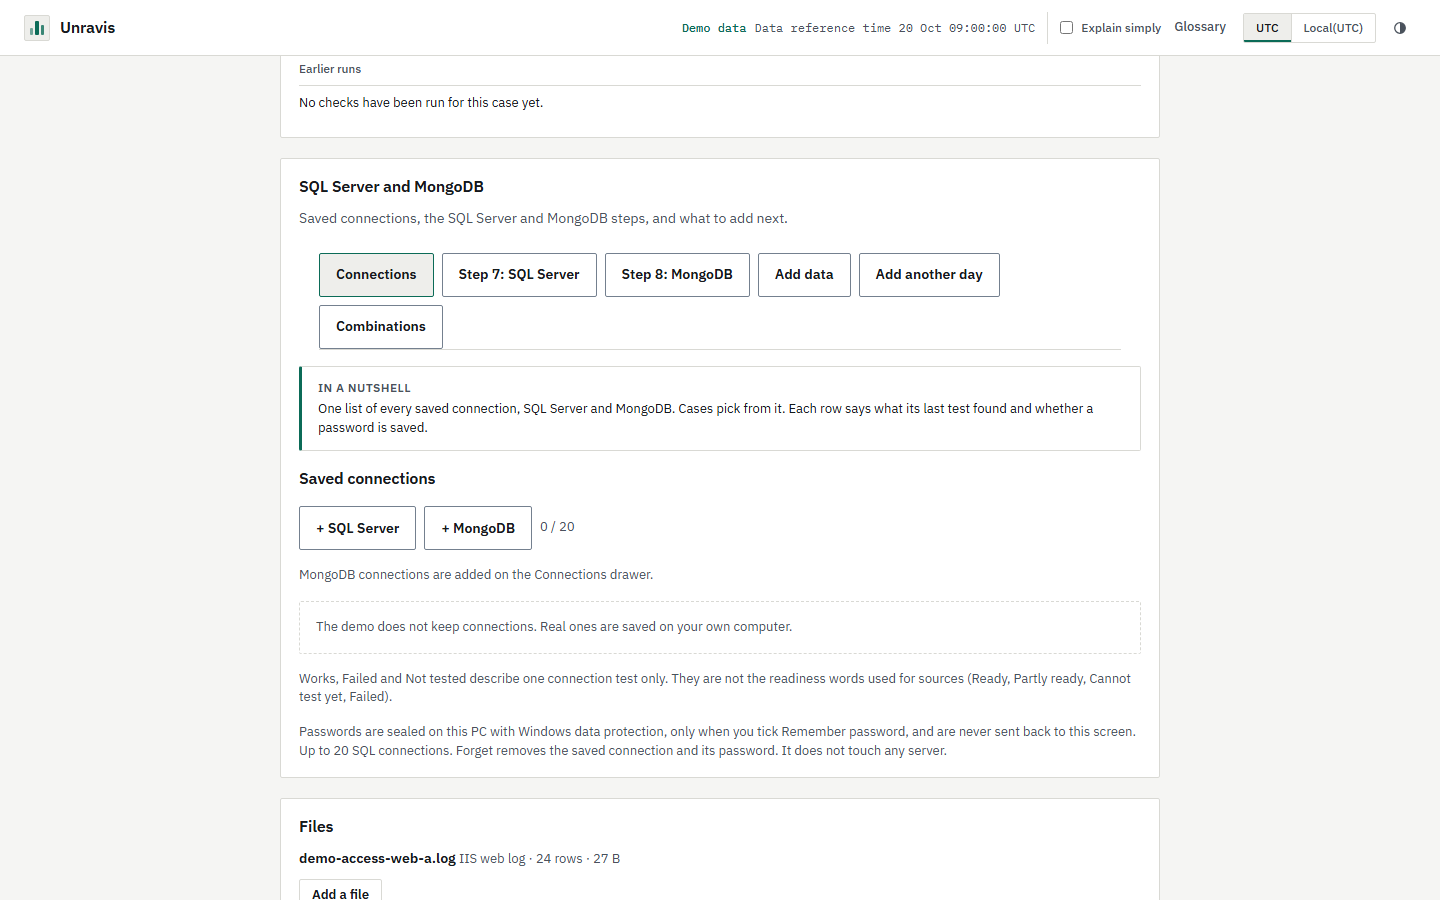
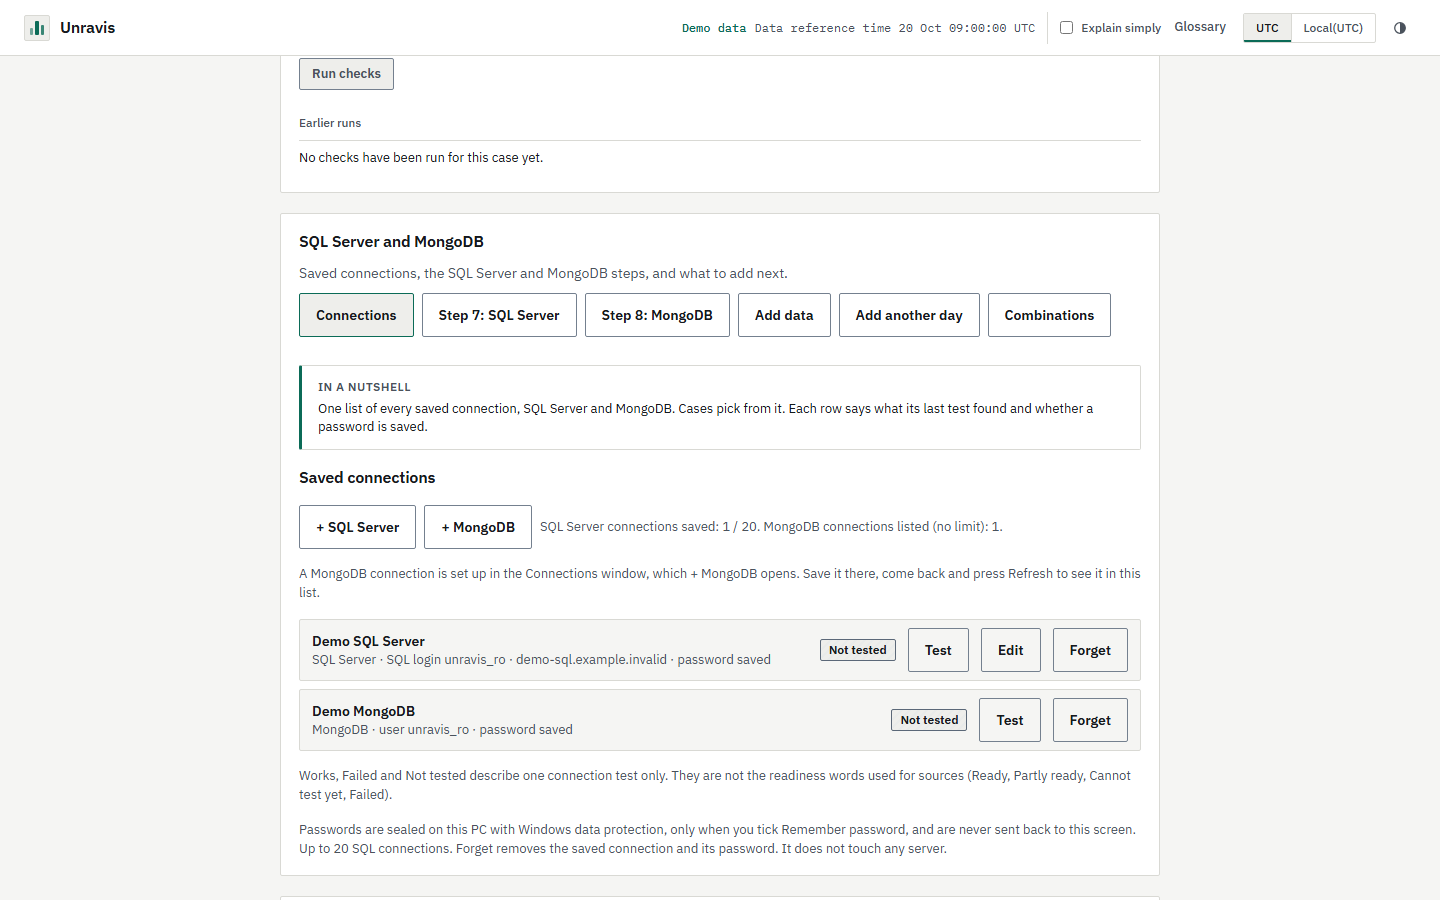
P7: regenerate baselines for the fixed screens, add the connection test screen, document the demo scenarios

diff --git a/buildout/docs/sources.md b/buildout/docs/sources.md
@@ -32,12 +32,17 @@ Screen `p7-connections` lists every saved connection, SQL Server and MongoDB, in
 - Forget asks once. It removes the saved connection and its password. It does not touch the server.
 - You can save up to 20 SQL Server connections. At 20 the add button is disabled and the page says so. If a 21st is sent anyway, the server refuses it (409) and nothing is removed.
 - A wrong password shows Failed with the server's own message. It never shows the password.
-- In the demo nothing can be saved, so the page says the demo does not keep connections.
+- The demo has a sample SQL Server and a sample MongoDB already saved, and it keeps what you add only while it runs. It never opens a real connection and never keeps a password. Type the database name AuditDb to read a day that works, NoGrantDb to see the grant script, EmptyDb to see Nothing read, and for MongoDB ProfilerOffDb to see the profiler guide.
 
 Screen `p7-sql-form` is the form for one SQL Server connection. Save, Test and Cancel are all outlined while the form sits on case home, because case home already has its main button. Leave the password box empty on an edit to keep the saved password.
 
 ![The SQL Server connection form, dark](../screenshots/P7/p7-sql-form-dark.png)
 ![The SQL Server connection form, light](../screenshots/P7/p7-sql-form-light.png)
+
+Screen `p7-sql-test-ok` is the same form after Test: the word Works and the server version sit under the buttons, and no password is shown.
+
+![A SQL Server connection test that works, dark](../screenshots/P7/p7-sql-test-ok-dark.png)
+![A SQL Server connection test that works, light](../screenshots/P7/p7-sql-test-ok-light.png)
 
 ### Step 7: SQL Server
 
